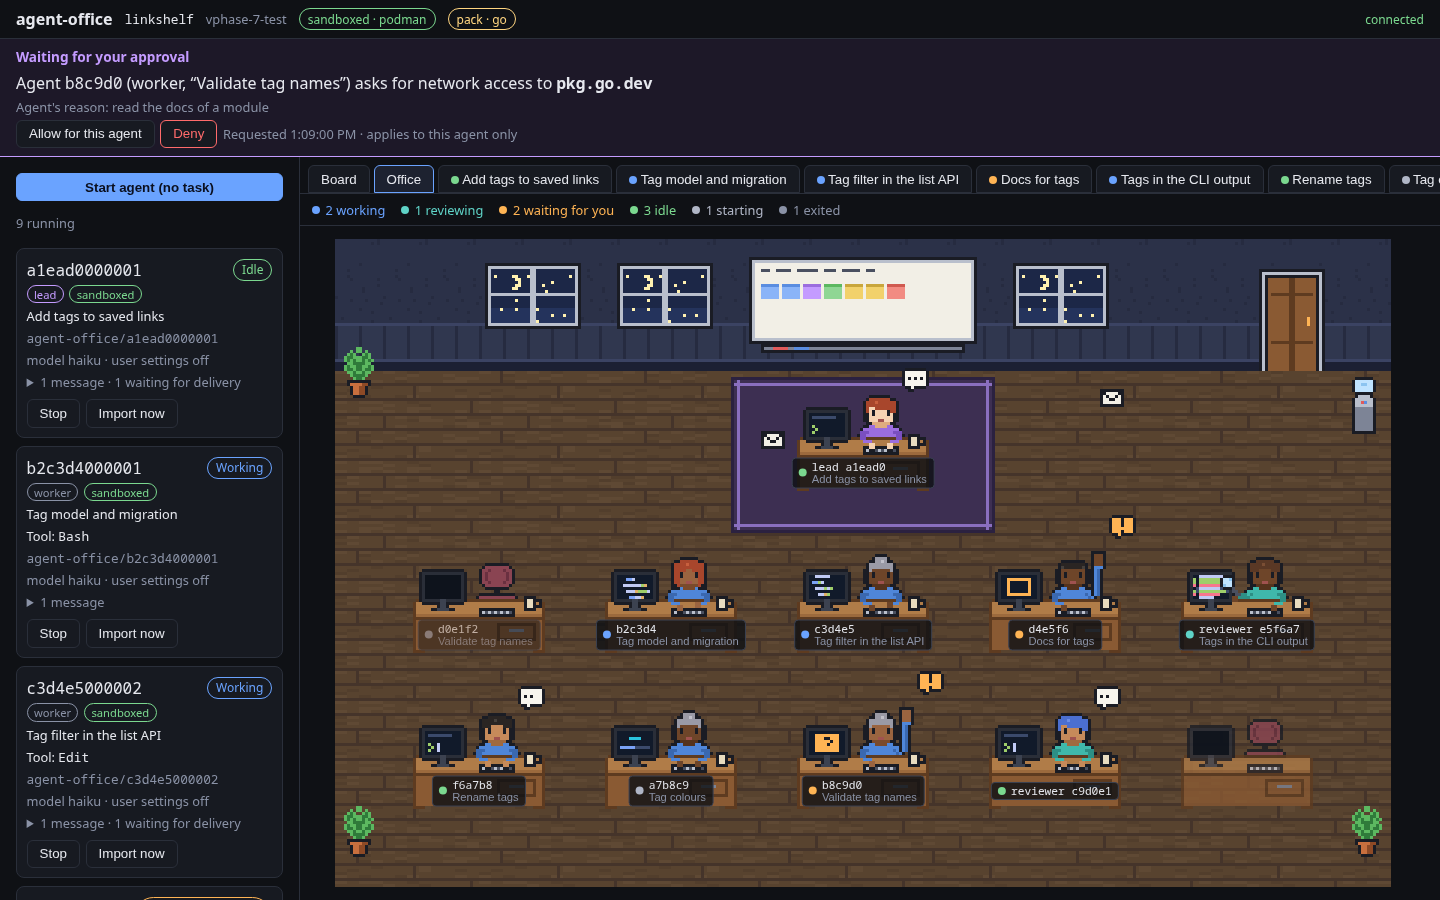
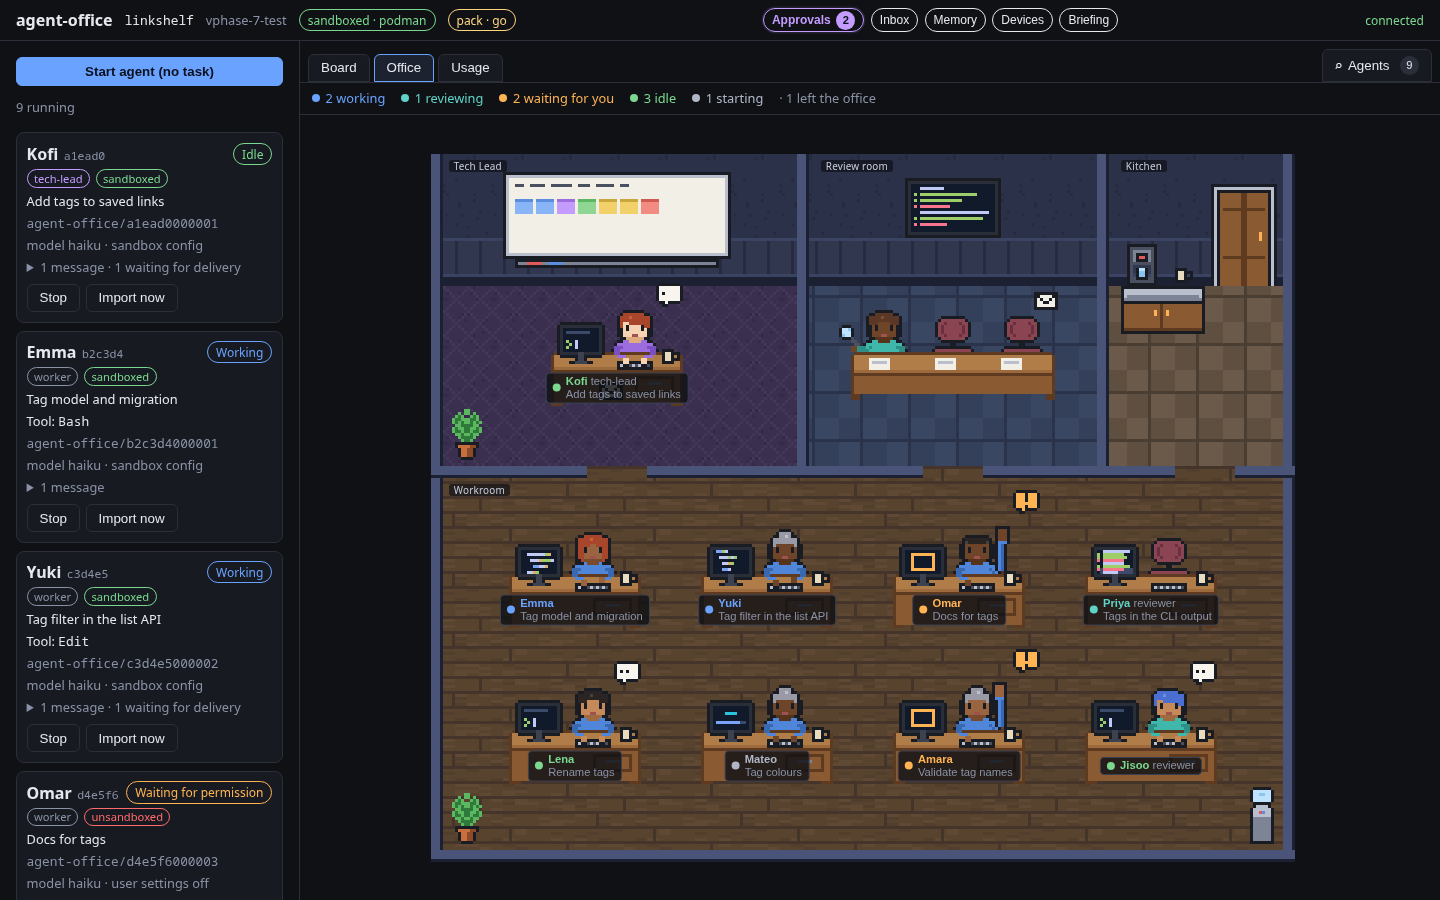
docs: refresh the showcase: new demo GIF, screenshots and README
A real sandboxed haiku team recorded with make demo in the Office v2 (107
s, about two cents), stills from that run, and mocked screenshots of the
current UI (rooms, desks, messages, the phone layout, Usage). Every still
and frames across the GIF were checked for local paths and personal data.

diff --git a/README.md b/README.md
@@ -5,14 +5,15 @@ agent-office a goal. A Tech Lead agent splits it into sub-tasks and assigns them
 agent (Claude Code) runs in its own rootless Podman sandbox with its own git clone, no network
 except an allowlist, and no access to your credentials. A local web UI shows the task board, every
 agent's live terminal, token costs, and a pixel-art office where you can see who is working,
-waiting or done. Workers hand their commits back as verified git bundles. Pushing, opening pull
+waiting for you, reporting at the Tech Lead's whiteboard or taking a coffee. Workers hand their commits back as verified git bundles. Pushing, opening pull
 requests and anything risky stays behind deterministic checks and your approval. It is a single Go
 binary with the UI embedded, Linux-first.
 
-![A real run: the goal goes on the board, a Tech Lead splits it, two sandboxed workers implement the sub-tasks in parallel and report back](docs/screenshots/team-run.gif)
+![A real run: the goal goes on the board, a Tech Lead splits it, sandboxed workers walk in, implement the sub-tasks, report at the whiteboard and leave](docs/screenshots/team-run.gif)
 
-<sub>A real, unedited run at about 2× speed (`make demo`): a haiku Tech Lead and two sandboxed
-haiku workers add two features to a small Go service in 55 seconds, for about two cents.</sub>
+<sub>A real, unedited run at about 3× speed (`make demo`): a haiku Tech Lead and two sandboxed
+haiku workers add two features to a small Go service in 107 seconds, for about two cents. The
+lead ran the sub-tasks one after the other because both touch the same handler file (ADR 0032).</sub>
 
 ## What it does
 
@@ -38,13 +39,22 @@ haiku workers add two features to a small Go service in 55 seconds, for about tw
   project memory reaches the agents it applies to ([docs/usage.md](docs/usage.md)).
 - **From your phone.** An installable PWA over Tailscale, with every device paired by a one-time
   code ([docs/remote.md](docs/remote.md)).
+- **An office you can watch.** A pixel-art floor plan with the Tech Lead's room, a review room, a
+  kitchen and the workroom. Characters walk in through the front door, report at the whiteboard,
+  review at the table, take a coffee when idle and leave when they are done, all derived from the
+  same events as the board and drawn only when something moves
+  ([ADR 0045](docs/adr/0045-office-floor-plan-and-errands.md)).
 
 <p align="center">
   <img src="docs/screenshots/board-team-run.png" alt="The board after the run: goal and sub-tasks in review, with cost per task and a conflict between the two branches" width="49%">
   <img src="docs/screenshots/usage-team-run.png" alt="The Usage tab after the run: tokens and estimated cost by task" width="49%">
 </p>
 <p align="center">
-  <img src="docs/screenshots/office.png" alt="The Office with ten agents in every state: typing, waiting with a raised hand, reviewing, idle, starting, exited" width="80%">
+  <img src="docs/screenshots/office.png" alt="The Office: a worker reports at the Tech Lead's whiteboard, a reviewer reads at the review room table, idle agents drink coffee in the kitchen, a new agent walks in through the front door, and the workroom shows agents typing and waiting with raised hands" width="80%">
+</p>
+<p align="center">
+  <img src="docs/screenshots/office-live-team.png" alt="A real run in the Office: a sandboxed worker reports at the Tech Lead's whiteboard while the next worker walks in through the kitchen door" width="62%">
+  <img src="docs/screenshots/office-phone.png" alt="The Office on a phone: the rooms stacked above the workroom" width="17%">
 </p>
 
 ## Architecture
@@ -87,7 +97,7 @@ the domain model and the threat model, is in [docs/architecture.md](docs/archite
 
 ## Key design decisions
 
-The decisions are recorded as 42 ADRs, indexed by topic in [docs/adr/](docs/adr/README.md).
+The decisions are recorded as 45 ADRs, indexed by topic in [docs/adr/](docs/adr/README.md).
 The ones that shape the system most:
 
 | Decision | Why | ADR |

diff --git a/docs/screenshots/README.md b/docs/screenshots/README.md
@@ -1,17 +1,22 @@
 # Screenshots
 
+Refreshed at the end of Phase 13 (2026-11-09) so every picture shows the current UI.
+
 | File | What it shows |
 |---|---|
-| `team-run.gif` | A real run (Phase 11, `make demo`, [docs/demo.md](../demo.md)): the goal typed into the board, a sandboxed haiku Tech Lead splitting it into two sub-tasks, two sandboxed workers implementing them in parallel, both reporting, the goal moving to review. About 55 seconds of real time, sped up about 2×. |
-| `board-team-run.png` | The board at the end of that run: the goal and both sub-tasks in review, with tokens and cost per task and for the team, and the conflict check (`git merge-tree`, ADR 0032) showing that the two branches conflict with each other. |
+| `team-run.gif` | A real run (`make demo`, [docs/demo.md](../demo.md)): the goal typed into the board, a sandboxed haiku Tech Lead splitting it into two sub-tasks, each sandboxed worker walking in through the kitchen door, implementing its sub-task, reporting at the Tech Lead's whiteboard and walking out, the lead's coffee break and its own report, then the Usage tab. 107 seconds of real time, sped up about 3×; the lead ran the sub-tasks one after the other because both touch the same file (ADR 0032). |
+| `board-team-run.png` | The board at the end of that run: the goal and both sub-tasks in review, with tokens and cost per task and for the team, and the merge-tree conflict check (ADR 0032). |
 | `usage-team-run.png` | The Usage tab for that run, by task. |
-| `office.png` | The Office tab with ten agents in every state, from the mocked daemon of the UI tests (Phase 7): a lead planning (whiteboard notes), workers typing, two waiting for the user (raised hands, one for an access request shown in the approval queue above), a reviewer, an idle agent, one starting and one that has exited. |
-| `office-desks.png` | Close-up of the desks: poses, monitors, bubbles and nameplates (mocked daemon). |
+| `office-live-team.png` | A still from that run: a worker reports at the whiteboard next to the Tech Lead while the next worker walks in through the kitchen's front door (ADR 0045). |
+| `office.png` | The Office from the mocked daemon of the UI tests (Phase 13 showcase test): a worker reporting at the whiteboard, a reviewer at the review room's table, three idle agents with coffee in the kitchen, a new agent walking in, a message flying to the Tech Lead, and the workroom with agents typing, waiting for the user (raised hands) and starting. |
+| `office-rooms.png` | Close-up of the rooms in that picture: the Tech Lead's room, the review room and the kitchen. |
+| `office-desks.png` | Close-up of the workroom in that picture: poses, monitors, bubbles, nameplates and empty chairs of agents who are away. |
 | `office-messages.png` | Messages between agents flying as envelopes (mocked daemon). |
-| `office-live-team.png` | A real run from Phase 7: a haiku lead and two sandboxed workers (`--pack go`). |
-| `usage.png` | The Usage tab after one live sandboxed session (Phase 8). |
+| `office-phone.png` | The Office on a Pixel 7 (mocked daemon): the stacked floor plan, rooms above the workroom. |
+| `usage.png` | The Usage tab by task with a goal budget and tokens without a price (mocked daemon). |
 
 The mocked ones (Playwright's headless Chromium; `make ui-test` writes fresh ones to
 `web/test-results/screens/`) use fictional agents and tasks. The real ones show work on the
 playground project only; the stills and frames sampled across the GIF were checked for local paths
-and personal data before they were committed. None contain captured agent data beyond what is visible.
+and personal data before they were committed (the repository path appears only in a tooltip,
+sandboxed terminals show `/workspace`). None contain captured agent data beyond what is visible.

diff --git a/docs/demo.md b/docs/demo.md
@@ -22,12 +22,20 @@ What it does (`web/demo/record-team-run.ts`, run by Node with Playwright's Chrom
    end.
 3. Records 1280×800 video while it adds the goal on the board, clicks **Start Tech Lead** and
    switches to the Office tab. It waits until the goal is in review and the Tech Lead is idle
-   (20-minute limit), then shows the board and the Usage tab.
+   (20-minute limit), keeps the Office on screen for eight more seconds (the Tech Lead reports at
+   its whiteboard, the last workers walk out; ADR 0045), then shows the board and the Usage tab.
 4. Stops the agents and the daemon, removes the containers, the clone and the data dir
-   (`AO_DEMO_KEEP=1` keeps them), and writes `team-run.webm`, four PNG stills and `markers.json`
+   (`AO_DEMO_KEEP=1` keeps them), and writes `team-run.webm`, PNG stills and `markers.json`
    (seconds into the video at each step) to `AO_DEMO_OUT`.
 5. `web/demo/to-gif.sh` speeds the video up to about 35 seconds, then scales it to 800 px at 6 fps
-   with 64 colours, which is about 6 MB.
+   with 64 colours, which is 4 to 6 MB.
+
+The stills are `office-goal-reported.png`, `board-goal-reported.png` and `usage-team-run.png`,
+plus `office-team-working.png` when two workers work at the same time and
+`office-worker-reporting.png` when the first worker reports. A haiku lead often runs the two
+sub-tasks one after the other (both touch the same handler file, so ADR 0032 makes the second
+depend on the first); then those two are missing, and a frame from the video serves instead
+(`ffmpeg -ss <s> -i team-run.webm -frames:v 1 still.png`).
 
 Before committing a new GIF or still, look at the stills and at frames across the GIF
 (`ffmpeg -ss <s> -i team-run.gif -frames:v 1 f.png`). Check for local paths, names and anything
@@ -49,8 +57,9 @@ the README's GIF open as a fallback in case the network or the API is slow.
    sandbox, while you keep the decisions.
 2. **Give the team a goal (1 min).** On the board, add "Health check and duplicate URLs" (the two
    playground backlog items) and click **Start Tech Lead**. Open the **Office** tab. The lead's
-   whiteboard fills with sub-tasks, two workers sit down and start typing, and messages fly to the
-   lead when they report.
+   whiteboard fills with sub-tasks, workers walk in through the kitchen's front door to their
+   desks and start typing, and each one walks to the Tech Lead's whiteboard when it reports, then
+   leaves. The idle lead takes a coffee meanwhile (ADR 0045).
 3. **Look inside (1 min).** Open a worker's terminal tab: it is a real Claude Code session, live.
    Point at the agent card's "sandbox events": Claude Code tried to reach `downloads.claude.ai`, and
    the egress allowlist refused it. The worker has no network of its own and no credential. Its
